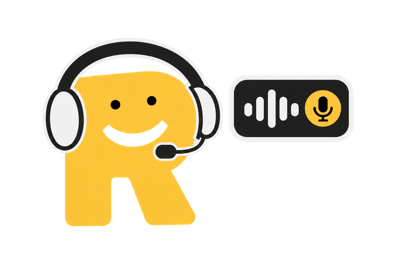
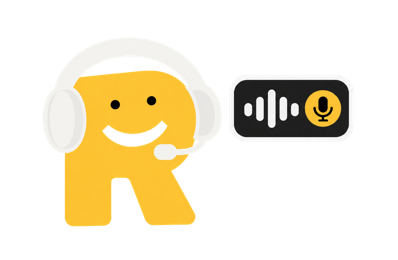
Self Onboarding: replace Voice dark illustration (light headphones)

diff --git a/docs/self-onboarding.md b/docs/self-onboarding.md
@@ -132,7 +132,7 @@ option C: a dark-mode version of each illustration, with light outlines. The cod
 both modes.
 
 Received so far: `welcome-dark.png` (Adriana, 2026-11-11; replaced the same day by a version without the outline
-around the R) and `inspects-website-dark.png` (Website and Reading, 2026-11-11) and `venue-dark.png` (Venue, 2026-11-11; replaced the same day by a newer version) and `knowledge-dark.png` (Knowledge, 2026-11-11, sent as WebP) and `hours-dark.png` (Hours, 2026-11-11; sent at 1448×1086, cropped to the same frame) and `voice-dark.png` (Voice, 2026-11-11; also sent at 1448×1086), cropped like the light ones and in
+around the R) and `inspects-website-dark.png` (Website and Reading, 2026-11-11) and `venue-dark.png` (Venue, 2026-11-11; replaced the same day by a newer version) and `knowledge-dark.png` (Knowledge, 2026-11-11, sent as WebP) and `hours-dark.png` (Hours, 2026-11-11; sent at 1448×1086, cropped to the same frame) and `voice-dark.png` (Voice, 2026-11-11, sent at 1448×1086; replaced the same day by a version with light headphones), cropped like the light ones and in
 use.
 
 ### What to ask the illustrator
